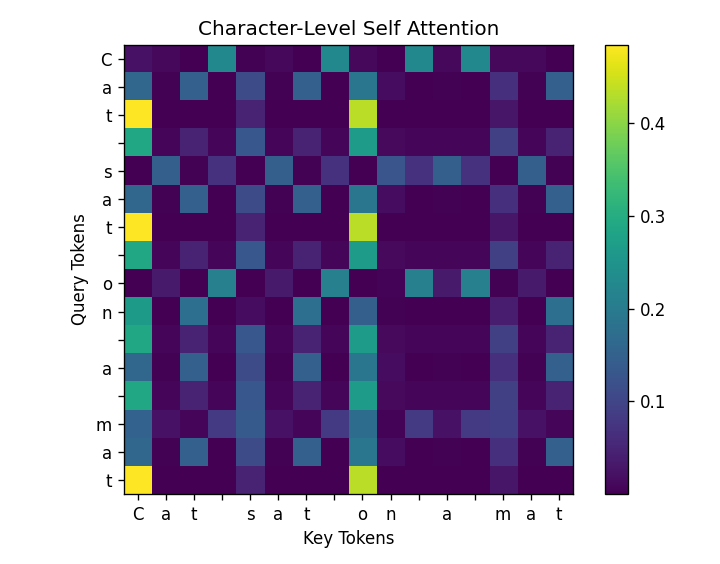
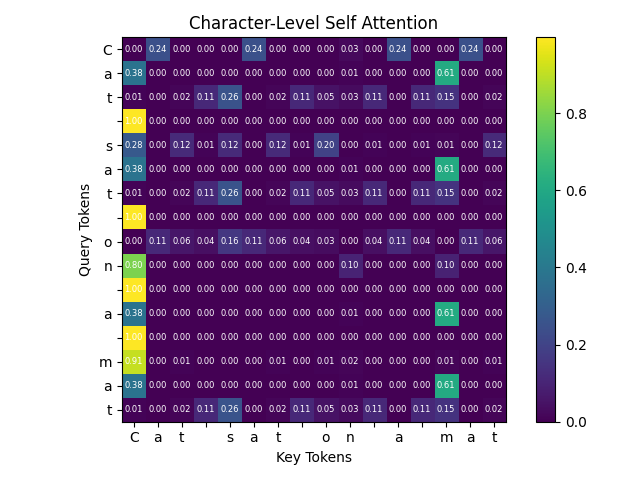
Improve visualization

diff --git a/src/visualization.py b/src/visualization.py
@@ -14,7 +14,22 @@ def plot_attention_weights(labels: list[str], weights: np.ndarray) -> None:
     axis.set_xlabel("Key Tokens")
     axis.set_ylabel("Query Tokens")
     axis.set_title("Character-Level Self Attention")
-
+    for i in range(len(labels)):
+        for j in range(len(labels)):
+            plt.text(
+                j,
+                i,
+                f"{weights[i, j]:.2f}",
+                ha="center",
+                va="center",
+                color="white",
+                fontdict= {
+                    "fontsize":6,
+                }
+            )
+    
     plt.colorbar(image, ax=axis)
     plt.tight_layout()
+    plt.savefig("assets/non_trained_attention_heatmap.png")
     plt.show()
+    

diff --git a/src/pipeline.py b/src/pipeline.py
@@ -2,9 +2,9 @@
 
 import numpy as np
 
-from .attention import compute_attention_weights
-from .embeddings import create_embedding_matrix, embed_tokens
-from .tokenizer import build_vocab, text_to_tokens
+from src.embeddings import create_embedding_matrix, embed_tokens
+from src.tokenizer import build_vocab, text_to_tokens
+from src.attention import compute_attention_weights
 
 
 DEFAULT_TEXT = "Cat sat on a mat"